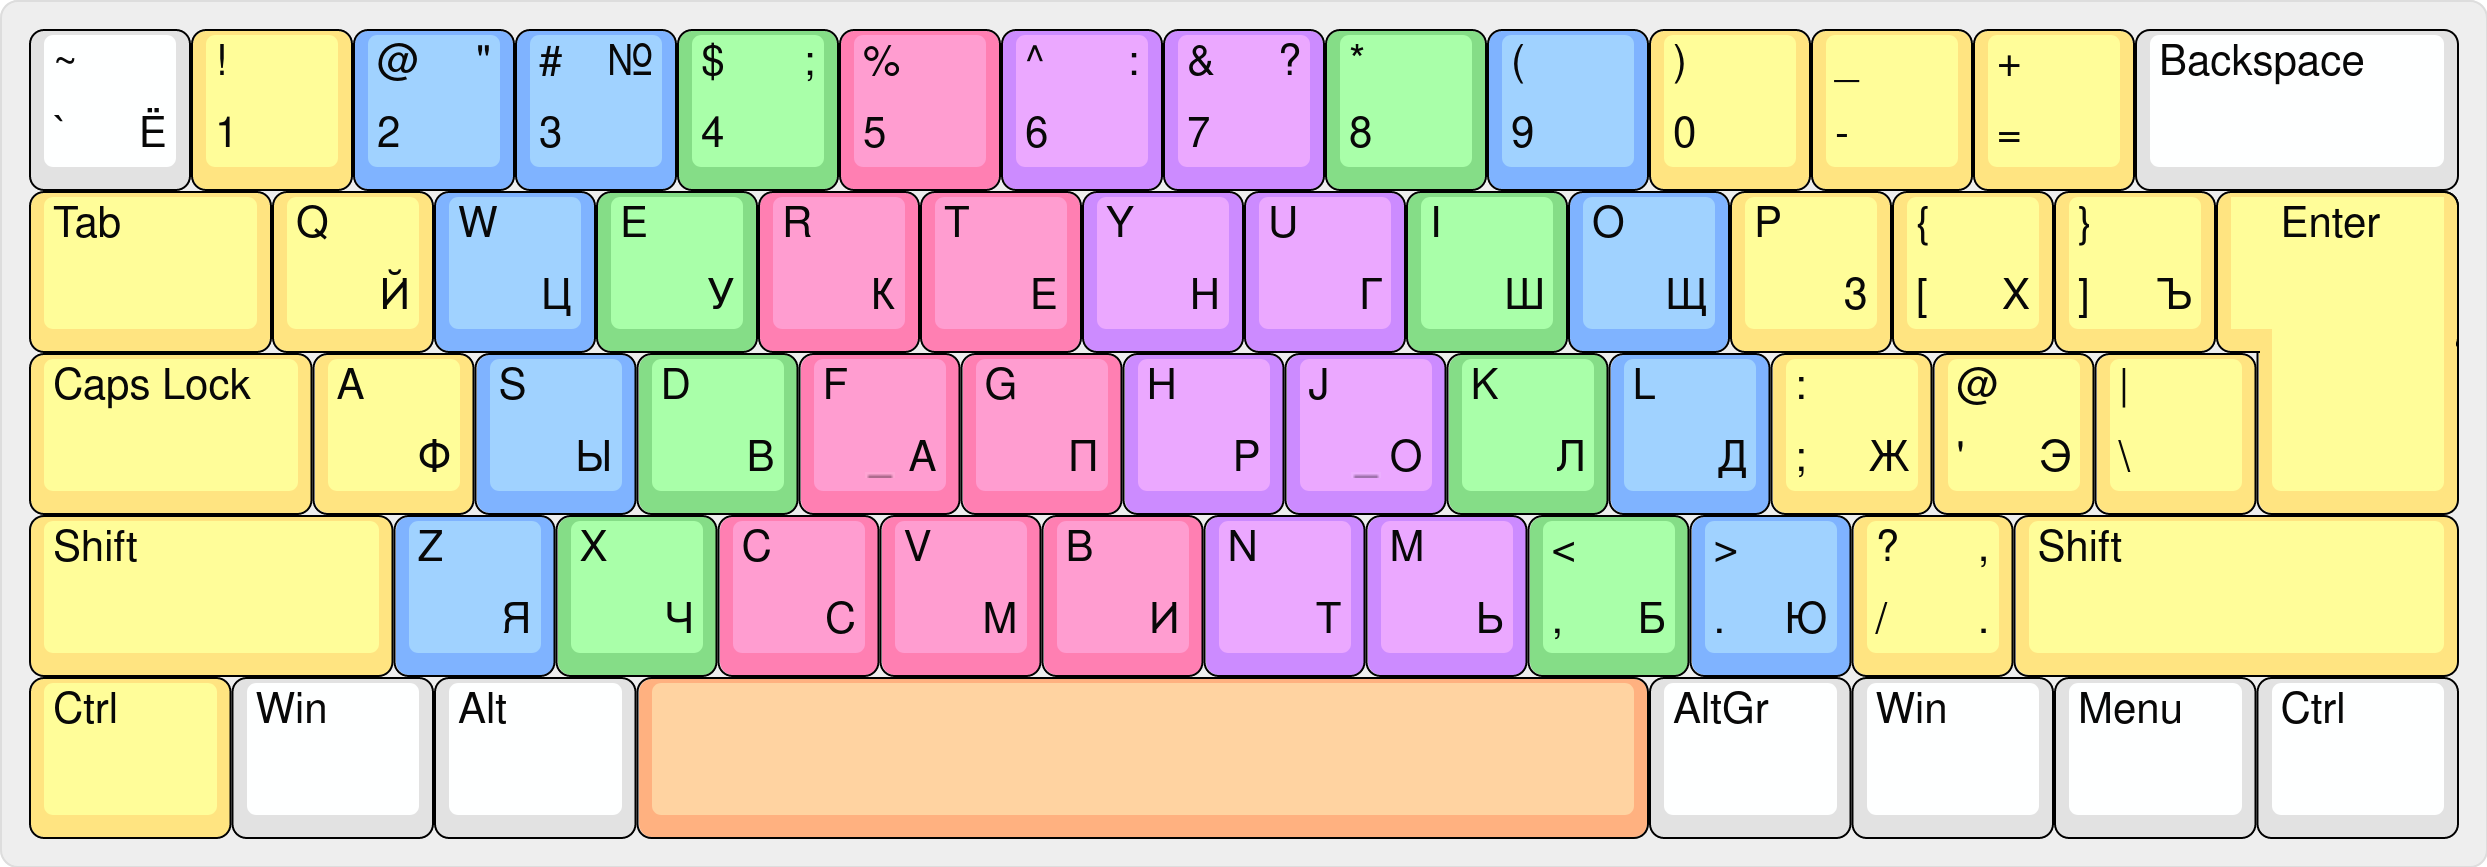
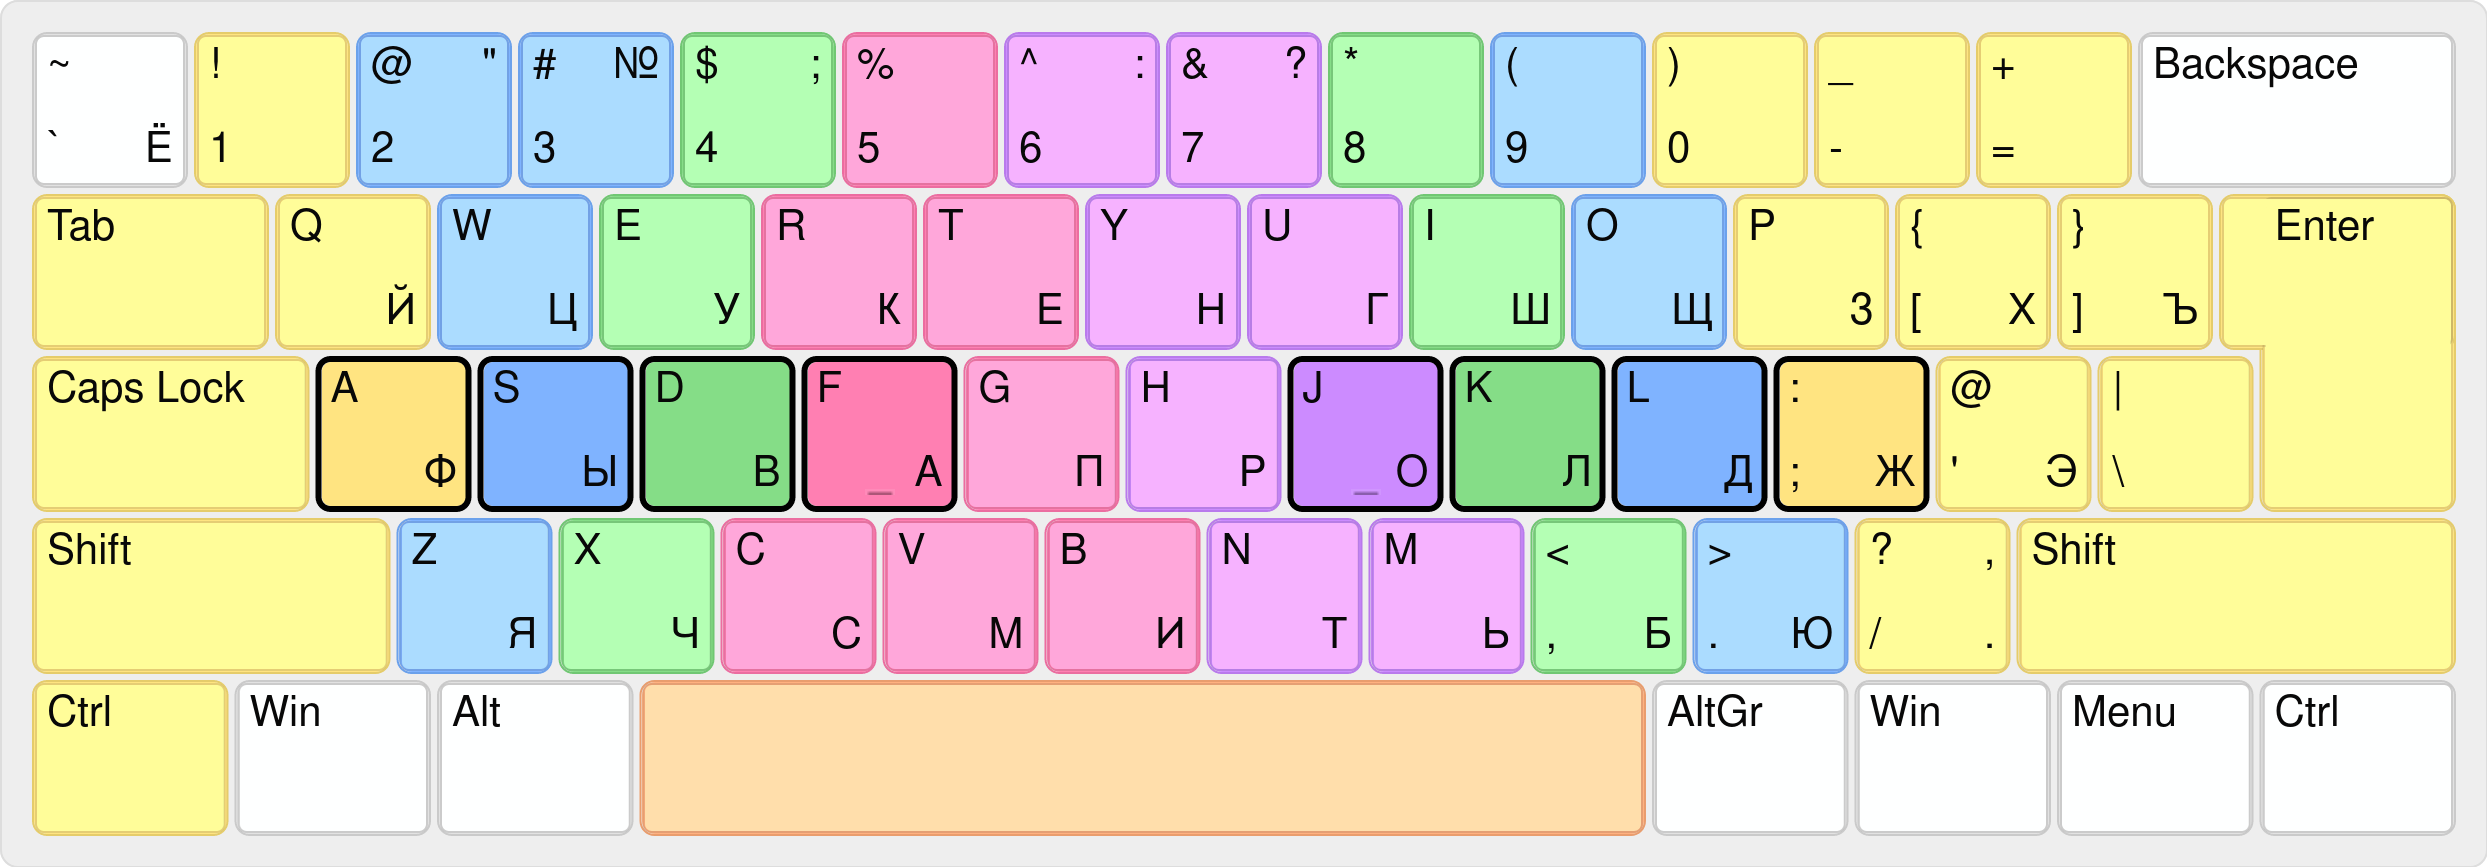
improve zones images

diff --git a/README.md b/README.md
@@ -202,8 +202,6 @@
 * Жёлтый - мизинец
 * Оранжевый - большой палец
 
-Все 4 пальца изначально стоят на ФЫВА ОЛДЖ (ASDF JKL;).
-
 Можно заметить, что зоны какие-то кривые, и левой руке должно быть неудобно. Да, так и есть, и некоторые люди это замечают сразу, и делают костыли в виде таких зон:
 
 ![](img/sk_advanced_zones.png)
@@ -211,6 +209,10 @@
 Пример людей на клавогонках, с необычными зонами: [\_VR\_](http://klavogonki.ru/u/#/389432/), [Alkhor](http://klavogonki.ru/u/#/314554/).
 
 Я считаю, что "костыльные" зоны на самом деле лучше, потому что они делают печать удобнее для левой руки. Но к сожаленю до них не все додумываются (я, например, не додумался), и о них не все знают. Поэтому большинство обучающихся десятипалу страдают на оригинальных зонах, которые пишут во всех учебниках и обучающих материалах.
+
+Существуют ещё большие костыли, которые не только делают другие зоны, но ещё и другую постановку - `ЫВАМ ТОЛД`. Данная постановка значительно переделывает раскладку ЙЦУКЕН, и ещё делает положение рук более эргономичным. Вот как она выглядит:
+
+![](img/ЫВАМ_ТОЛД.png)
 
 Да и хотелось бы чтобы зоны были симметричными. А ведь даже с костылями они довольно кривоваты, и количество букв для разных рук различается чуть ли не на всех пальцах.
 
